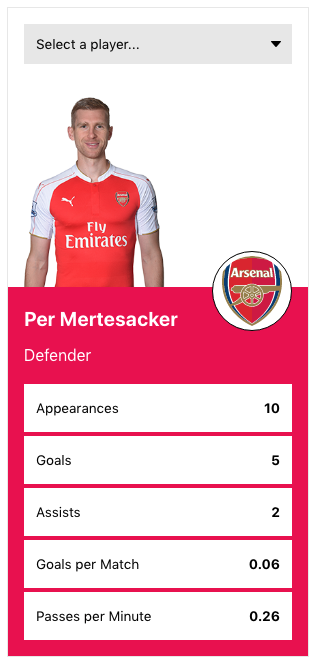
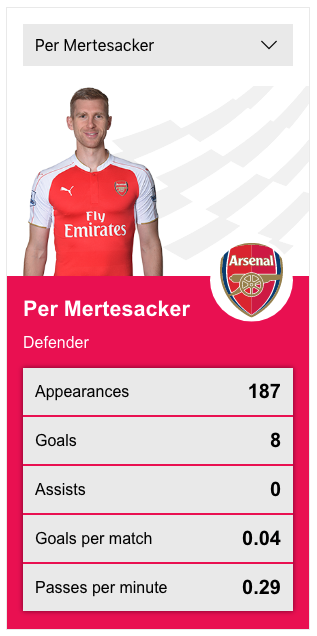
Updated readme and screenshot

diff --git a/README.md b/README.md
@@ -4,6 +4,14 @@ Football statistics test
 
 ![Screenshot](screenshot.png?raw=true)
 
+### Install
+
+```
+yarn
+npm install
+
+```
+
 ### Start
 
 ```
@@ -11,3 +19,7 @@ yarn build && yarn start
 npm run build && npm run start
 
 ```
+
+### Open
+
+Open URL that is printed in console for example `http://localhost:9000/`
